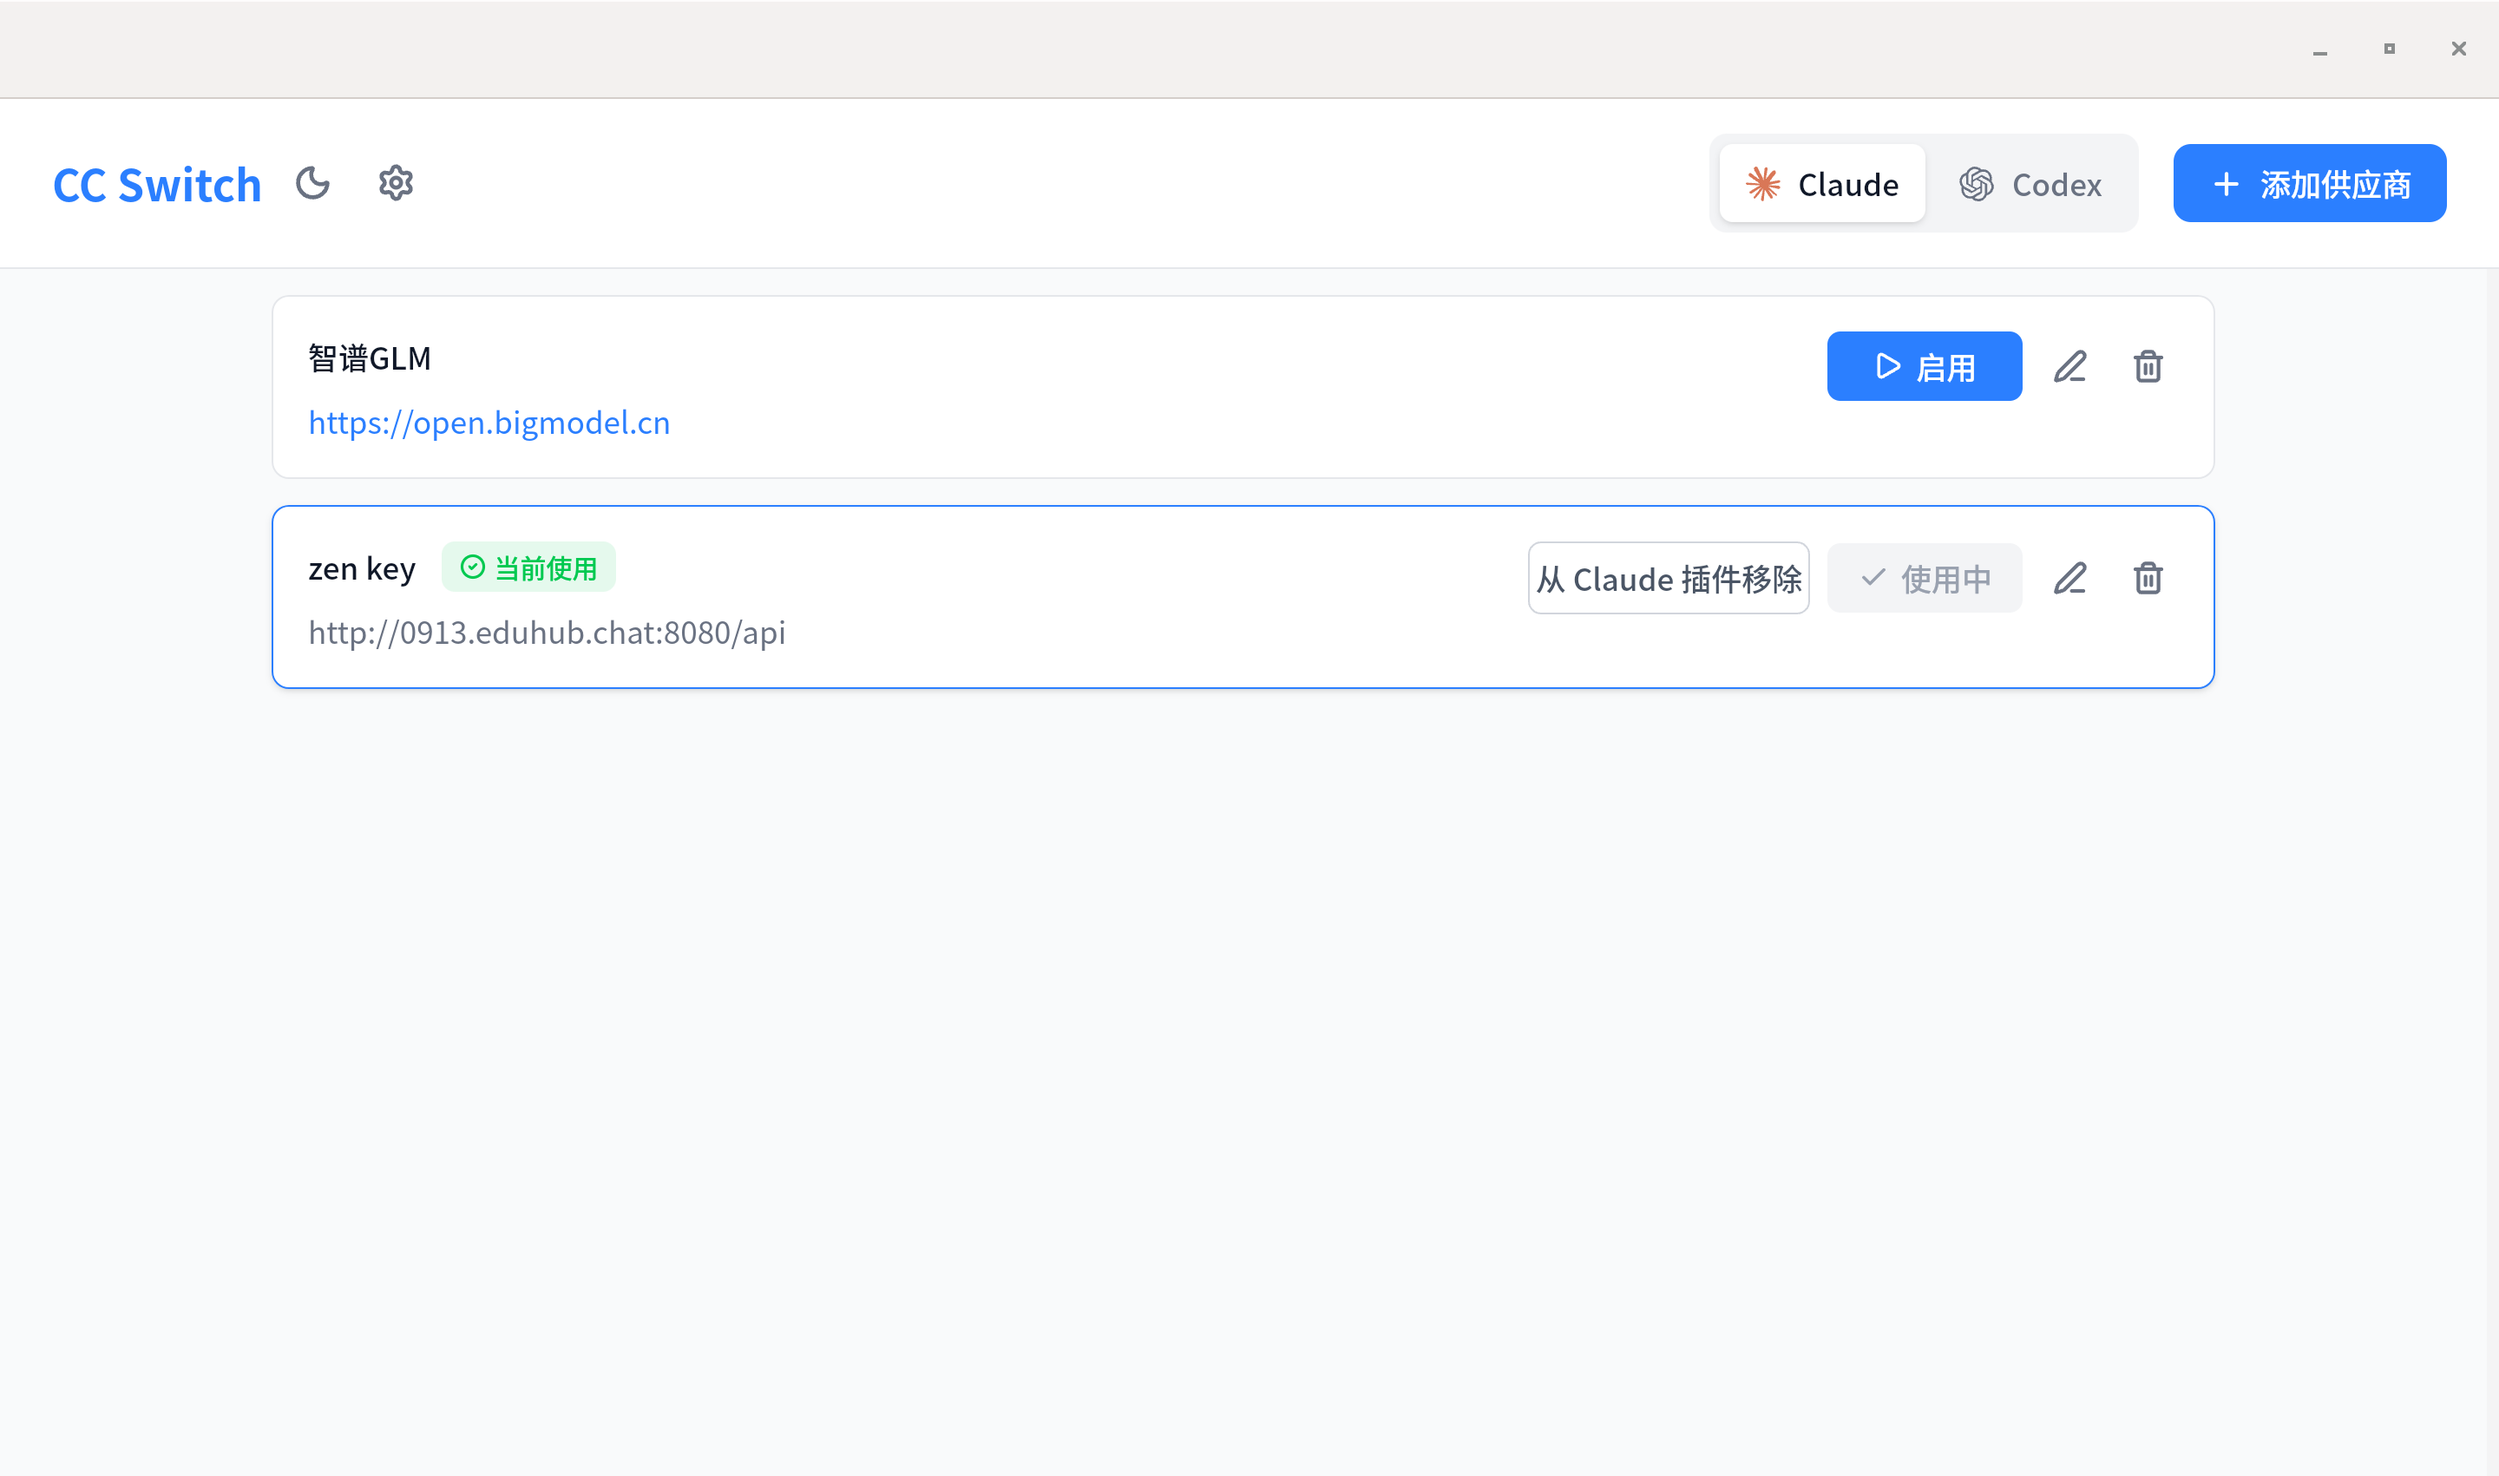
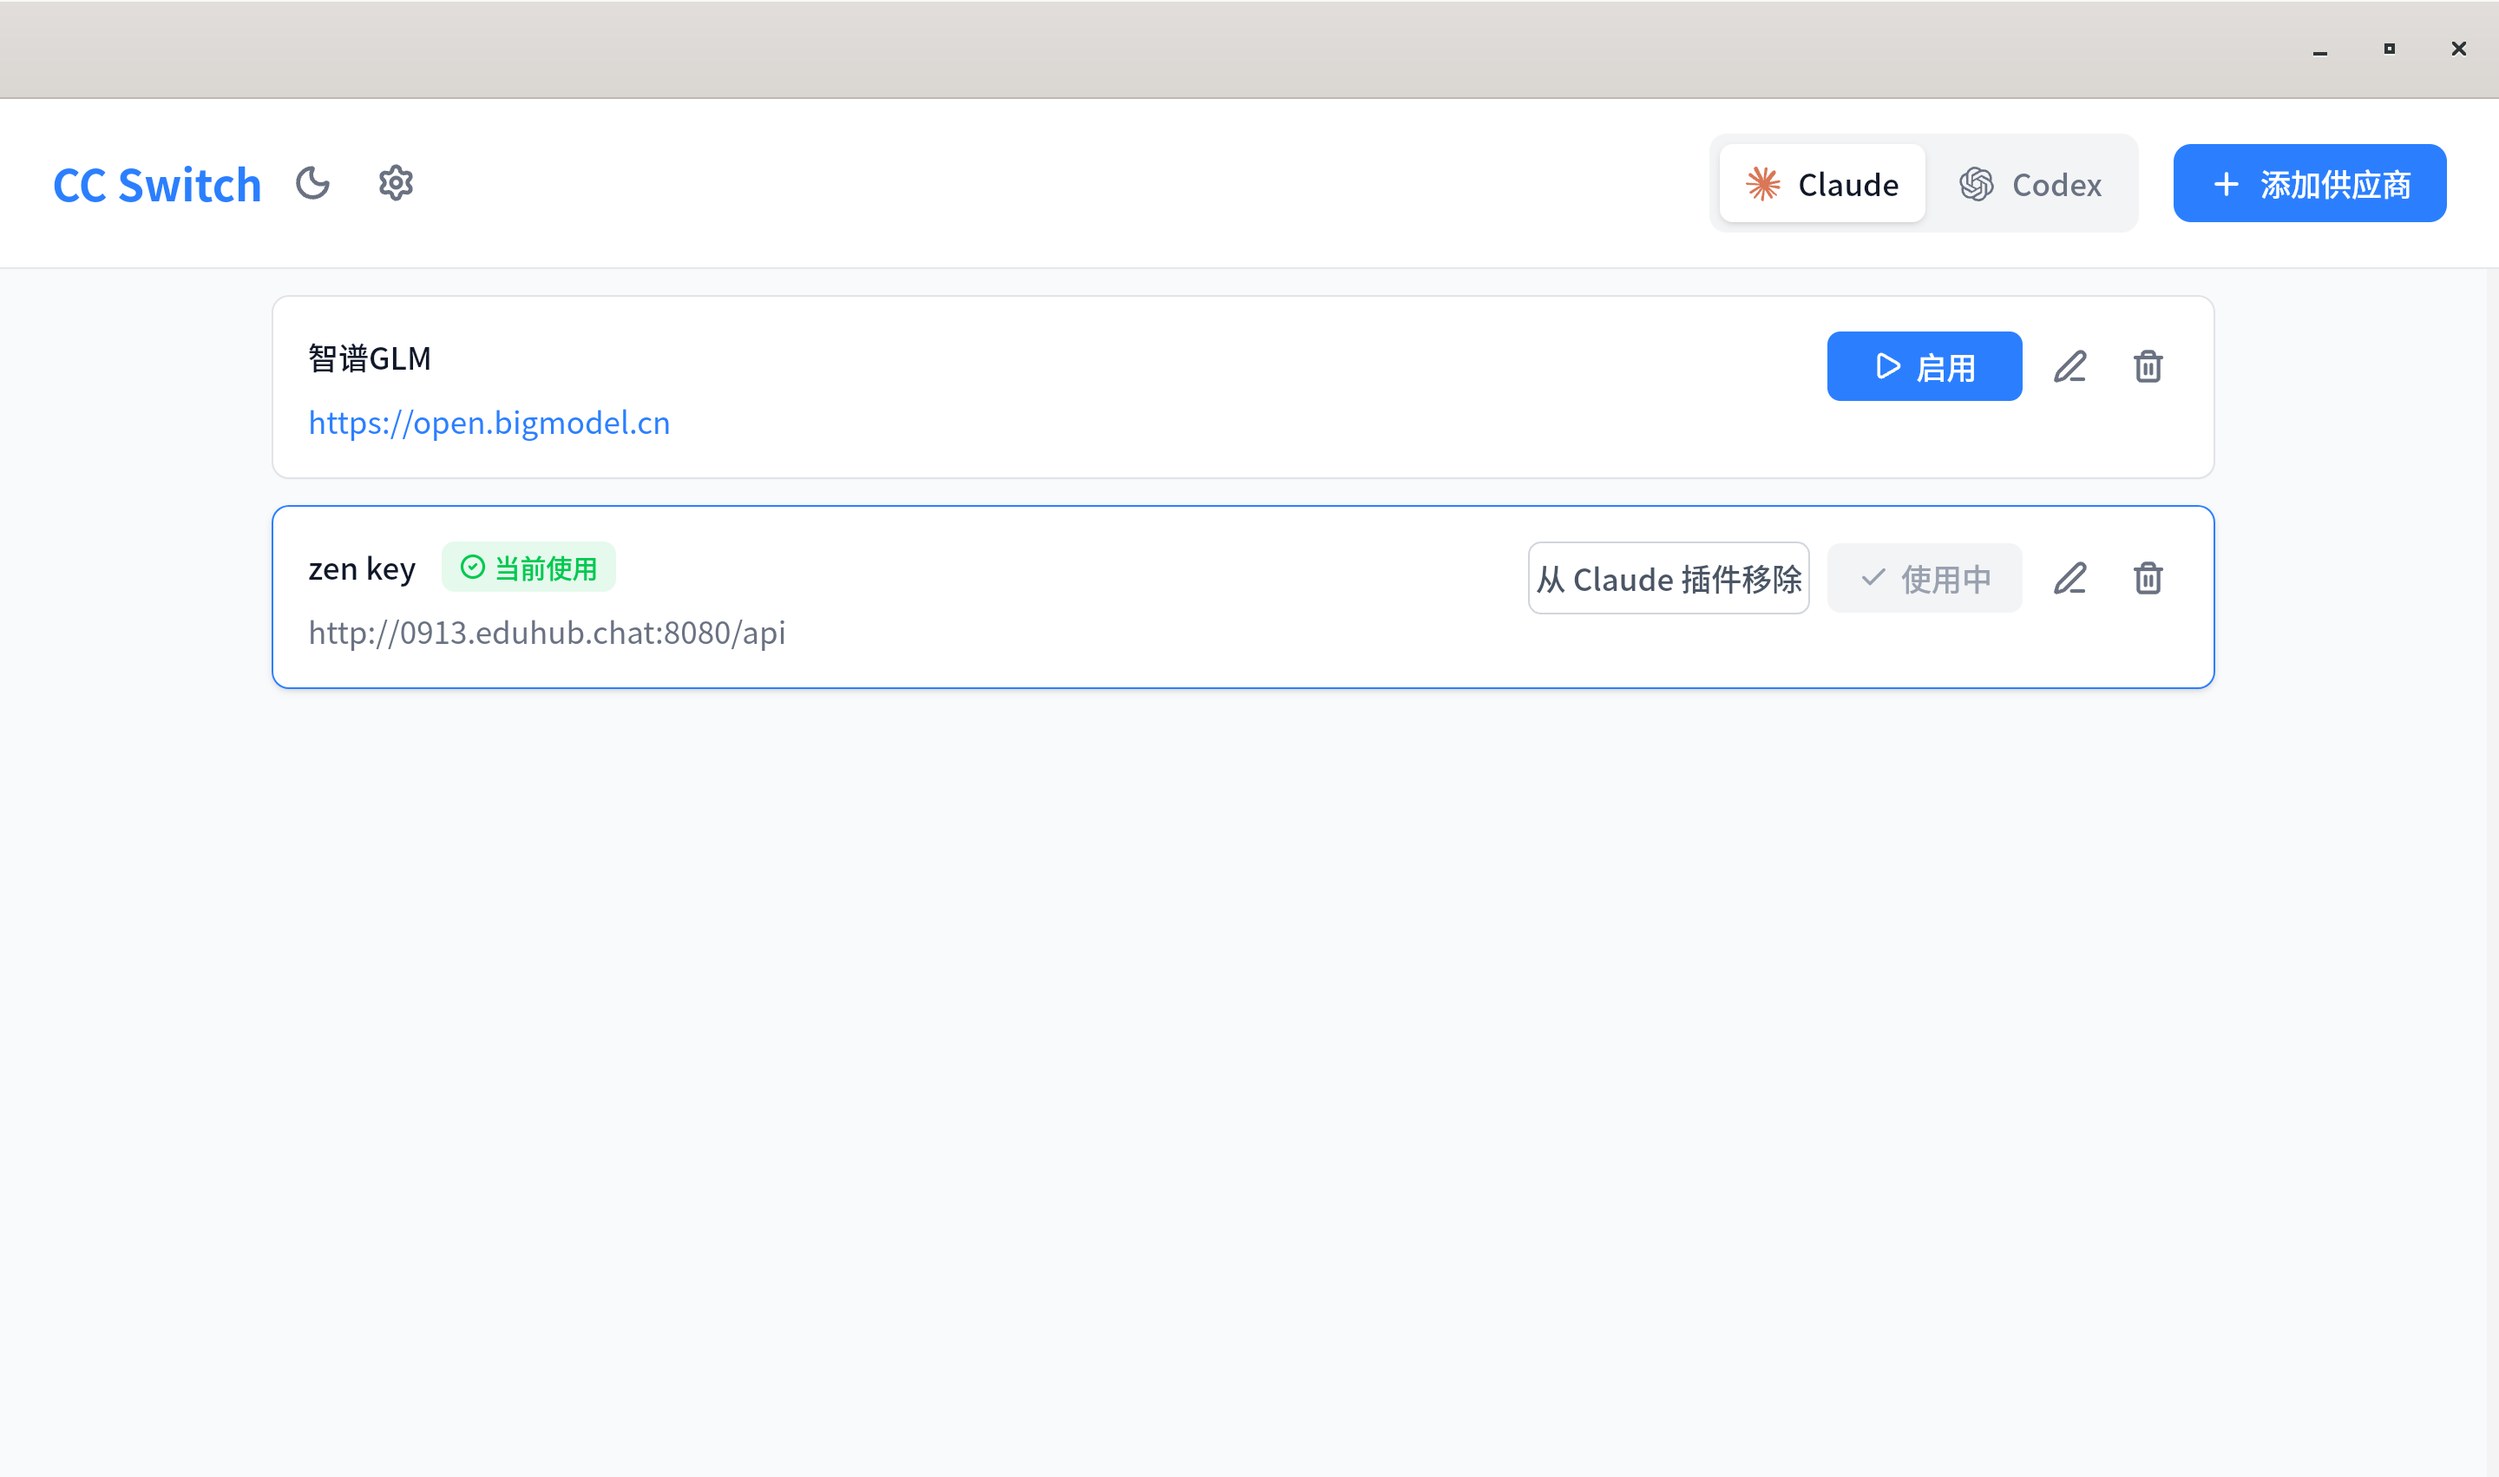
update: docs

diff --git a/CLAUDE.md b/CLAUDE.md
@@ -1,0 +1,209 @@
+# CLAUDE.md
+
+This file provides guidance to Claude Code (claude.ai/code) when working with code in this repository.
+
+## Project Overview
+
+Mizuki is a modern, feature-rich static blog template built with Astro, featuring advanced functionality including multi-language support, animated UI transitions, and extensive customization options. The project emphasizes beautiful design with smooth animations powered by Swup, comprehensive Markdown extensions, and special feature pages (anime tracking, diary, friends, gallery).
+
+## Development Commands
+
+| Command | Purpose |
+|---------|---------|
+| `pnpm install` | Install dependencies (pnpm >= 9 required) |
+| `pnpm dev` | Start development server at localhost:4321 |
+| `pnpm build` | Build production site (includes Pagefind search index) |
+| `pnpm preview` | Preview production build locally |
+| `pnpm check` | Run Astro type checking |
+| `pnpm type-check` | Run TypeScript type checking with isolated declarations |
+| `pnpm format` | Format code with Biome |
+| `pnpm lint` | Lint and auto-fix code issues with Biome |
+| `pnpm new-post <filename>` | Create new blog post with frontmatter template |
+
+**Note**: This project enforces pnpm usage via preinstall hook. Node.js >= 20 required.
+
+## Architecture & Code Structure
+
+### Core Configuration (`src/config.ts`)
+
+Central configuration file controlling all blog features. Key exports:
+
+- **`siteConfig`**: Site metadata, language, theme colors, translation settings, banner configuration
+- **`navBarConfig`**: Navigation links with support for nested dropdown menus
+- **`profileConfig`**: User profile information and social links
+- **`sidebarLayoutConfig`**: Comprehensive sidebar component system with ordering, animations, and responsive behavior
+- **`commentConfig`**: Comment system integration (Twikoo/Giscus/Waline)
+- **`announcementConfig`**, **`musicPlayerConfig`**: Widget configurations
+- **`sakuraConfig`**: Cherry blossom animation effects
+- **`pioConfig`**: Live2D character configuration
+
+### Content Collections
+
+Defined in `src/content/config.ts`:
+
+- **`posts`**: Blog posts with schema including title, published date, tags, categories, encryption, series support
+- **`spec`**: Special pages (friends, about) with flexible schema
+
+Posts support:
+- Draft mode (`draft: true`)
+- Pinning to top (`pinned: true`)
+- Page encryption (`encrypted: true`, `password: "..."`)
+- Series grouping (`series: "series-name"`)
+- Per-post language override (`lang: "..."`)
+
+### Layouts
+
+- **`Layout.astro`**: Base layout with head, scripts, global styles
+- **`MainGridLayout.astro`**: Main content grid with configurable sidebar positioning (left/right)
+
+Sidebar positioning is controlled via `sidebarLayoutConfig.position` - when set to "right", the TOC automatically moves to the left for better reading experience.
+
+### Component System
+
+**Key Components**:
+- `Navbar.astro`: Main navigation with multi-level dropdown support
+- `PostCard.astro`: Article preview cards
+- `PostMeta.astro`: Article metadata display
+- `Search.svelte`: Pagefind-powered search interface
+- `MobileTOC.svelte`: Mobile table of contents
+- `PasswordProtection.astro`: Post encryption functionality
+- `ArchivePanel.svelte`: Timeline-based archive view
+- `TypewriterText.astro`: Animated typewriter effect for banner subtitle
+
+**Widget Components** (`src/components/widget/`):
+- Profile, Categories, Series, Tags, TOC components
+- Configurable via `sidebarLayoutConfig.components` array with ordering, animations, and responsive thresholds
+
+### Markdown Processing Pipeline
+
+**Remark Plugins** (processing Markdown):
+1. `remarkMath` - LaTeX math syntax
+2. `remarkReadingTime` - Calculate reading time
+3. `remarkExcerpt` - Extract post excerpts
+4. `remarkGithubAdmonitionsToDirectives` - Convert GitHub-style alerts
+5. `remarkDirective` - Process custom directives
+6. `remarkSectionize` - Wrap sections in containers
+7. `parseDirectiveNode` - Custom directive parsing
+8. `remarkMermaid` - Mermaid diagram support
+
+**Rehype Plugins** (processing HTML):
+1. `rehypeKatex` - Render math formulas
+2. `rehypeSlug` - Add IDs to headings
+3. `rehypeMermaid` - Render Mermaid diagrams
+4. `rehypeComponents` - Custom components (GitHub cards, admonitions)
+5. `rehypeAutolinkHeadings` - Add anchor links to headings
+
+**Custom Components in Markdown**:
+- `::github{repo="user/repo"}` - GitHub repository card
+- `::note`, `::tip`, `::important`, `::caution`, `::warning` - Admonition blocks
+
+### Expressive Code Configuration
+
+Code blocks use Expressive Code with custom plugins:
+- `pluginCollapsibleSections()` - Collapsible code sections
+- `pluginLineNumbers()` - Line numbering
+- `pluginLanguageBadge()` - Language badges
+- `pluginCustomCopyButton()` - Custom copy button styling
+
+Themes: `github-light` and `github-dark` with CSS variable-based styling.
+
+### Path Aliases (tsconfig.json)
+
+```
+@components/* → src/components/*
+@assets/* → src/assets/*
+@constants/* → src/constants/*
+@utils/* → src/utils/*
+@i18n/* → src/i18n/*
+@layouts/* → src/layouts/*
+@/* → src/*
+```
+
+### Utilities (`src/utils/`)
+
+- **`content-utils.ts`**: Post filtering, sorting (respects pinned status)
+- **`language-utils.ts`**: i18n language mapping
+- **`date-utils.ts`**: Date formatting
+- **`navigation-utils.ts`**: Navigation state management
+- **`animation-utils.ts`**: Swup animation helpers
+- **`widget-manager.ts`**: Sidebar widget orchestration
+- **`album-scanner.ts`**: Photo gallery indexing
+- **`sakura-manager.ts`**: Cherry blossom animation management
+- **`icon-loader.ts`**: Dynamic icon loading
+
+### Internationalization (i18n)
+
+- Translation powered by Edge Translate (client-side)
+- Language files in `src/i18n/languages/`
+- Auto-detection based on user browser preferences
+- Support for 10+ languages
+- Config-driven translation exclusions (`ignoreClasses`, `ignoreTags`)
+
+### Special Features
+
+**Banner System**:
+- Supports desktop/mobile responsive images
+- Carousel mode with configurable intervals
+- Optional external image API integration (PicFlow API)
+- Typewriter effect for subtitle animation
+- Multiple transparency modes for navbar: "semi", "full", "semifull"
+
+**Page Types**:
+- **Anime Page** (`src/pages/anime.astro`): Bangumi API or local anime tracking
+- **Diary Page** (`src/pages/diary.astro`): Social media-style moments
+- **Friends Page** (`src/pages/friends.astro`): Friend link showcase
+- **Gallery** (`src/pages/albums/`): Photo albums with pagination
+- **Timeline** (`src/pages/timeline.astro`): Personal timeline
+- **Projects/Skills** (`src/pages/projects.astro`, `skills.astro`): Portfolio pages
+
+**Comment Systems**:
+- Configured via `commentConfig.type` ("twikoo", "giscus", "waline")
+- Each system has separate configuration object
+
+### Styling
+
+- **TailwindCSS** for utility classes
+- **Stylus** for custom styles (`src/styles/`)
+- CSS variables for theming (hue-based color system)
+- Dark mode via `class` strategy
+- Typography plugin for prose content
+- Custom scrollbar via OverlayScrollbars
+
+### Build Process
+
+1. Astro build generates static HTML
+2. Pagefind runs post-build to create search index
+3. Images optimized via Sharp
+4. OG images can be generated (disabled by default for performance)
+
+### Page Encryption
+
+Posts can be password-protected using frontmatter:
+```yaml
+encrypted: true
+password: "your-password"
+```
+Handled by `PasswordProtection.astro` component using bcrypt for password hashing and crypto-js for content encryption.
+
+## Important Notes
+
+- **Base Path**: Configured in `astro.config.mjs` as `/Mizuki/` for GitHub Pages deployment
+- **Site URL**: Update `site` in `astro.config.mjs` before deployment
+- **Swup Integration**: Page transitions handled by Swup with special handling for anchor links
+- **Responsive Sidebar**: Components support collapse thresholds to improve mobile UX
+- **Widget System**: All sidebar components are configuration-driven via `sidebarLayoutConfig.components` array
+- **Translation Service**: Uses Edge browser translation API, controlled by `siteConfig.translate`
+
+## Creating New Posts
+
+Use `pnpm new-post <filename>` to generate a post template in `src/content/posts/`. Script automatically:
+- Adds `.md` extension if omitted
+- Creates nested directories if path includes slashes
+- Inserts frontmatter template with current date
+
+## Testing & Quality
+
+- Biome for linting and formatting (replaces ESLint/Prettier)
+- TypeScript strict mode enabled
+- Astro check for template validation
+- Isolated declarations for better type checking
